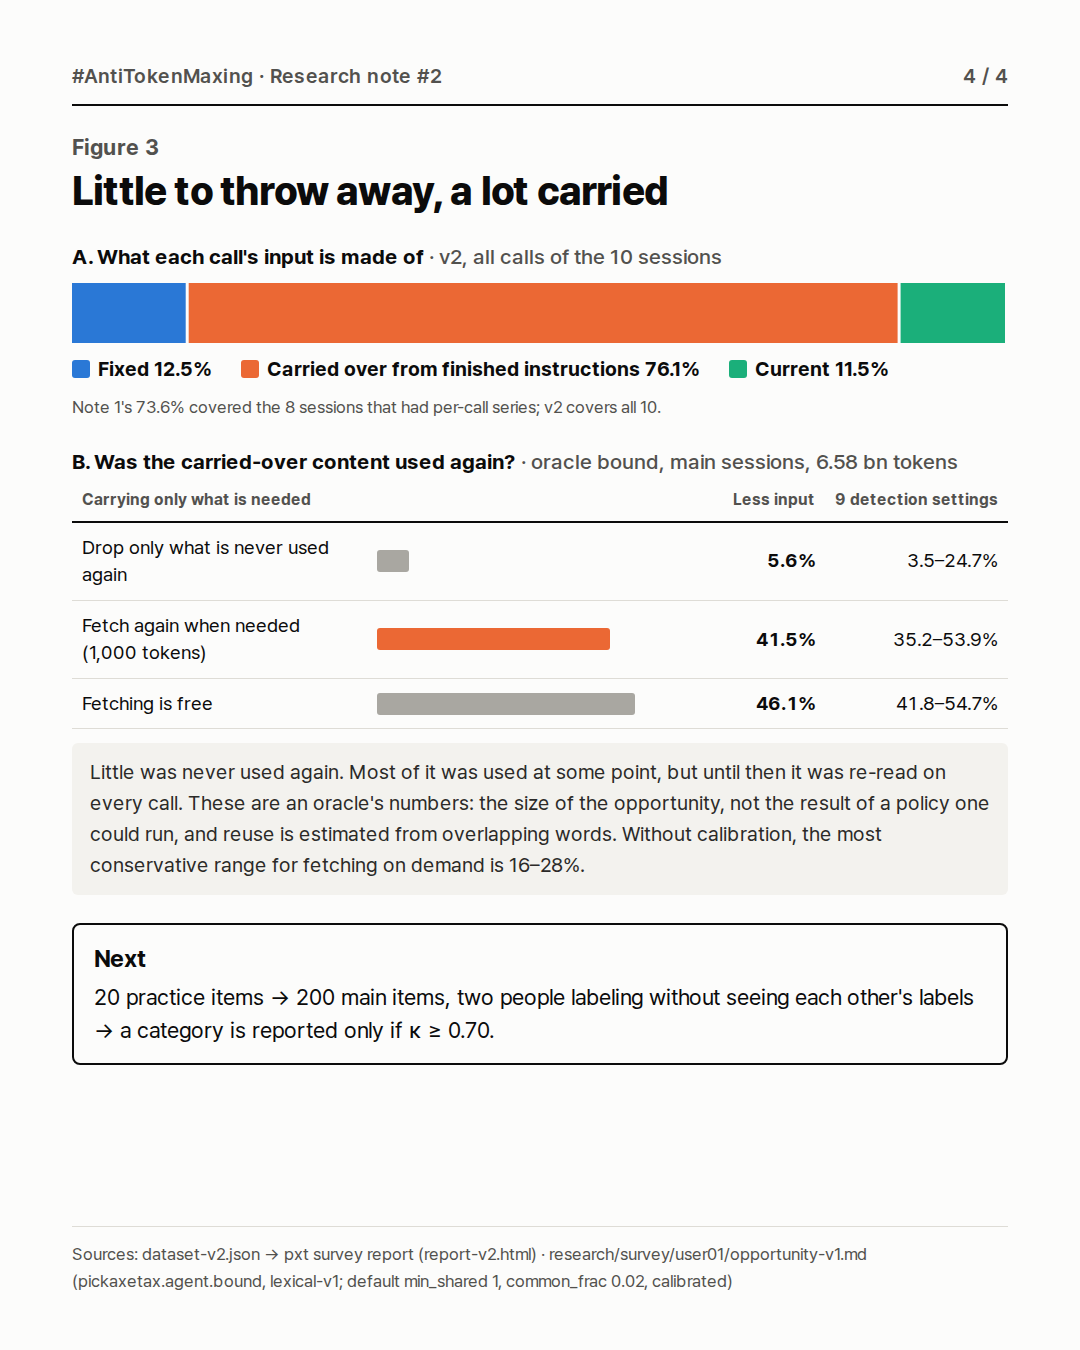
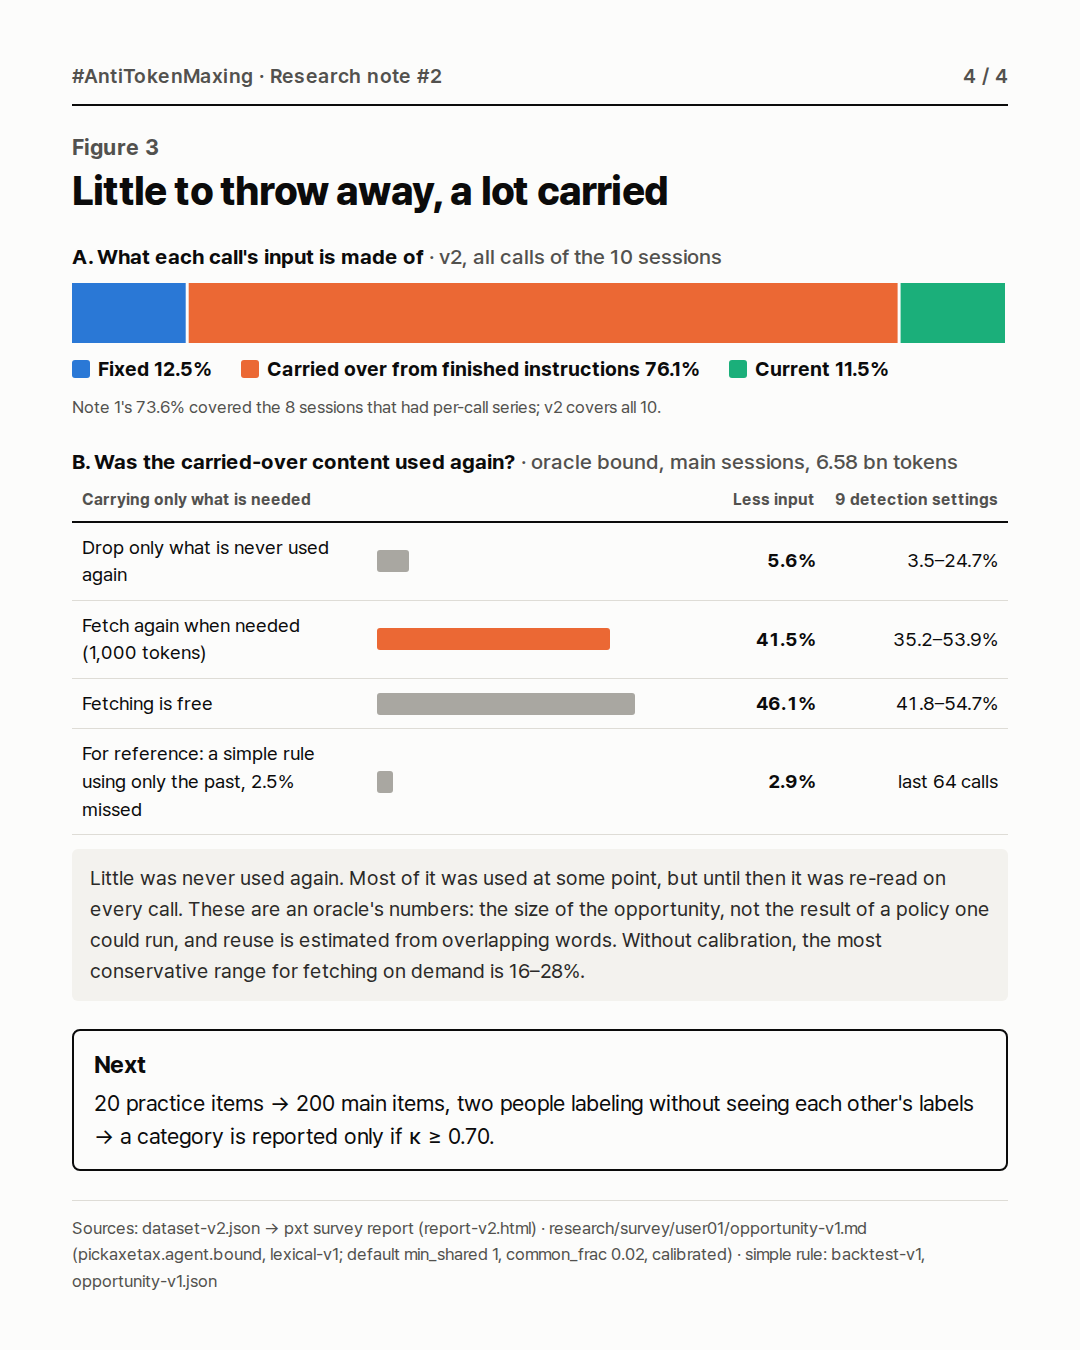
Note 2 figure 3: the simple rule next to the oracle; exploratory backtest grid in the data

Changed region(s): [[0.0611, 0.5289, 0.9167, 0.8711], [0.0611, 0.9022, 0.8556, 0.9644]]

diff --git a/docs/launch/linkedin-series/figures/note02-slides.html b/docs/launch/linkedin-series/figures/note02-slides.html
@@ -76,6 +76,6 @@ table.o td { vertical-align: middle; }
 <section class="slide" id="s4"><div class="top"><span>#AntiTokenMaxing · 연구 노트 #2</span><span>4 / 4</span></div>
   <div><p class="cap">그림 3</p><h2>버릴 것은 적고, 들고 다닌 것은 많다</h2></div>
   <div class="panel"><p class="k">A. 매 호출 입력의 구성 <span>· 판 2, 세션 10개 전체 호출 합</span></p><svg width="936" height="60" viewBox="0 0 936 60" role="img" aria-label="decomposition"><rect x="0.0" y="0" width="113.7" height="60" fill="#2a78d6"/><rect x="116.7" y="0" width="708.9" height="60" fill="#eb6834"/><rect x="828.6" y="0" width="104.4" height="60" fill="#1baf7a"/></svg><div class="legend"><span><i style="background:#2a78d6"></i>고정 12.5%</span><span><i style="background:#eb6834"></i>이전 지시에서 넘어온 몫 76.1%</span><span><i style="background:#1baf7a"></i>지금 지시 11.5%</span></div><p class="sub2">1편의 73.6%는 시계열이 있던 세션 8개 기준이고, 판 2는 10개 모두입니다.</p></div>
-  <div class="panel"><p class="k">B. 넘어온 내용은 다시 쓰였나 <span>· 오라클 최소치, 주 세션 65.8억 토큰</span></p><table class="n o"><thead><tr><th>필요한 것만 들고 갔다면</th><th></th><th class="r">덜 읽었을 몫</th><th class="r">탐지 기준 9가지</th></tr></thead><tbody><tr><td>다시는 안 쓰인 것만 버리기</td><td style="width:38%"><div class="obar dim" style="width:9.3%"></div></td><td class="r"><b>5.6%</b></td><td class="r">3.5~24.7%</td></tr><tr><td>필요할 때 다시 불러오기 (1천 토큰)</td><td style="width:38%"><div class="obar" style="width:69.2%"></div></td><td class="r"><b>41.5%</b></td><td class="r">35.2~53.9%</td></tr><tr><td>불러오기가 공짜라면</td><td style="width:38%"><div class="obar dim" style="width:76.8%"></div></td><td class="r"><b>46.1%</b></td><td class="r">41.8~54.7%</td></tr></tbody></table><p class="note">끝까지 다시 쓰이지 않은 내용은 적었습니다. 대부분은 언젠가 다시 쓰였지만, 그때까지 매 호출마다 다시 읽혔습니다. 미래를 아는 오라클의 값이라 실현 가능한 정책의 결과가 아니라 기회의 크기이고, 재사용은 글자 겹침으로 추정했습니다. 보정 없이 가장 보수적으로 잡으면 필요할 때 불러오기는 16~28%입니다.</p></div>
+  <div class="panel"><p class="k">B. 넘어온 내용은 다시 쓰였나 <span>· 오라클 최소치, 주 세션 65.8억 토큰</span></p><table class="n o"><thead><tr><th>필요한 것만 들고 갔다면</th><th></th><th class="r">덜 읽었을 몫</th><th class="r">탐지 기준 9가지</th></tr></thead><tbody><tr><td>다시는 안 쓰인 것만 버리기</td><td style="width:38%"><div class="obar dim" style="width:9.3%"></div></td><td class="r"><b>5.6%</b></td><td class="r">3.5~24.7%</td></tr><tr><td>필요할 때 다시 불러오기 (1천 토큰)</td><td style="width:38%"><div class="obar" style="width:69.2%"></div></td><td class="r"><b>41.5%</b></td><td class="r">35.2~53.9%</td></tr><tr><td>불러오기가 공짜라면</td><td style="width:38%"><div class="obar dim" style="width:76.8%"></div></td><td class="r"><b>46.1%</b></td><td class="r">41.8~54.7%</td></tr><tr><td>참고: 과거만 보는 단순 규칙, 놓침 2.5%</td><td style="width:38%"><div class="obar dim" style="width:4.8%"></div></td><td class="r"><b>2.9%</b></td><td class="r">최근 64번 호출</td></tr></tbody></table><p class="note">끝까지 다시 쓰이지 않은 내용은 적었습니다. 대부분은 언젠가 다시 쓰였지만, 그때까지 매 호출마다 다시 읽혔습니다. 미래를 아는 오라클의 값이라 실현 가능한 정책의 결과가 아니라 기회의 크기이고, 재사용은 글자 겹침으로 추정했습니다. 보정 없이 가장 보수적으로 잡으면 필요할 때 불러오기는 16~28%입니다.</p></div>
   <div class="box"><b>다음</b>연습 20개 → 본 판정 200개, 두 사람이 서로의 판정을 모른 채 → 갈래별 일치도 κ ≥ 0.70일 때만 결과를 냅니다.</div>
-  <p class="src">출처: dataset-v2.json → pxt survey report (report-v2.html) · research/survey/user01/opportunity-v1.md (pickaxetax.agent.bound, lexical-v1, 기본 기준 min_shared 1, common_frac 0.02, 보정)</p></section>
+  <p class="src">출처: dataset-v2.json → pxt survey report (report-v2.html) · research/survey/user01/opportunity-v1.md (pickaxetax.agent.bound, lexical-v1, 기본 기준 min_shared 1, common_frac 0.02, 보정) · 단순 규칙: backtest-v1, opportunity-v1.json</p></section>

diff --git a/docs/launch/linkedin-series/figures/note02-slides.en.html b/docs/launch/linkedin-series/figures/note02-slides.en.html
@@ -76,6 +76,6 @@ table.o td { vertical-align: middle; }
 <section class="slide" id="s4"><div class="top"><span>#AntiTokenMaxing · Research note #2</span><span>4 / 4</span></div>
   <div><p class="cap">Figure 3</p><h2>Little to throw away, a lot carried</h2></div>
   <div class="panel"><p class="k">A. What each call's input is made of <span>· v2, all calls of the 10 sessions</span></p><svg width="936" height="60" viewBox="0 0 936 60" role="img" aria-label="decomposition"><rect x="0.0" y="0" width="113.7" height="60" fill="#2a78d6"/><rect x="116.7" y="0" width="708.9" height="60" fill="#eb6834"/><rect x="828.6" y="0" width="104.4" height="60" fill="#1baf7a"/></svg><div class="legend"><span><i style="background:#2a78d6"></i>Fixed 12.5%</span><span><i style="background:#eb6834"></i>Carried over from finished instructions 76.1%</span><span><i style="background:#1baf7a"></i>Current 11.5%</span></div><p class="sub2">Note 1's 73.6% covered the 8 sessions that had per-call series; v2 covers all 10.</p></div>
-  <div class="panel"><p class="k">B. Was the carried-over content used again? <span>· oracle bound, main sessions, 6.58 bn tokens</span></p><table class="n o"><thead><tr><th>Carrying only what is needed</th><th></th><th class="r">Less input</th><th class="r">9 detection settings</th></tr></thead><tbody><tr><td>Drop only what is never used again</td><td style="width:38%"><div class="obar dim" style="width:9.3%"></div></td><td class="r"><b>5.6%</b></td><td class="r">3.5–24.7%</td></tr><tr><td>Fetch again when needed (1,000 tokens)</td><td style="width:38%"><div class="obar" style="width:69.2%"></div></td><td class="r"><b>41.5%</b></td><td class="r">35.2–53.9%</td></tr><tr><td>Fetching is free</td><td style="width:38%"><div class="obar dim" style="width:76.8%"></div></td><td class="r"><b>46.1%</b></td><td class="r">41.8–54.7%</td></tr></tbody></table><p class="note">Little was never used again. Most of it was used at some point, but until then it was re-read on every call. These are an oracle's numbers: the size of the opportunity, not the result of a policy one could run, and reuse is estimated from overlapping words. Without calibration, the most conservative range for fetching on demand is 16–28%.</p></div>
+  <div class="panel"><p class="k">B. Was the carried-over content used again? <span>· oracle bound, main sessions, 6.58 bn tokens</span></p><table class="n o"><thead><tr><th>Carrying only what is needed</th><th></th><th class="r">Less input</th><th class="r">9 detection settings</th></tr></thead><tbody><tr><td>Drop only what is never used again</td><td style="width:38%"><div class="obar dim" style="width:9.3%"></div></td><td class="r"><b>5.6%</b></td><td class="r">3.5–24.7%</td></tr><tr><td>Fetch again when needed (1,000 tokens)</td><td style="width:38%"><div class="obar" style="width:69.2%"></div></td><td class="r"><b>41.5%</b></td><td class="r">35.2–53.9%</td></tr><tr><td>Fetching is free</td><td style="width:38%"><div class="obar dim" style="width:76.8%"></div></td><td class="r"><b>46.1%</b></td><td class="r">41.8–54.7%</td></tr><tr><td>For reference: a simple rule using only the past, 2.5% missed</td><td style="width:38%"><div class="obar dim" style="width:4.8%"></div></td><td class="r"><b>2.9%</b></td><td class="r">last 64 calls</td></tr></tbody></table><p class="note">Little was never used again. Most of it was used at some point, but until then it was re-read on every call. These are an oracle's numbers: the size of the opportunity, not the result of a policy one could run, and reuse is estimated from overlapping words. Without calibration, the most conservative range for fetching on demand is 16–28%.</p></div>
   <div class="box"><b>Next</b>20 practice items → 200 main items, two people labeling without seeing each other's labels → a category is reported only if κ ≥ 0.70.</div>
-  <p class="src">Sources: dataset-v2.json → pxt survey report (report-v2.html) · research/survey/user01/opportunity-v1.md (pickaxetax.agent.bound, lexical-v1; default min_shared 1, common_frac 0.02, calibrated)</p></section>
+  <p class="src">Sources: dataset-v2.json → pxt survey report (report-v2.html) · research/survey/user01/opportunity-v1.md (pickaxetax.agent.bound, lexical-v1; default min_shared 1, common_frac 0.02, calibrated) · simple rule: backtest-v1, opportunity-v1.json</p></section>

diff --git a/docs/launch/linkedin-series/figures/note02-slides.py b/docs/launch/linkedin-series/figures/note02-slides.py
@@ -104,9 +104,10 @@ T = {
   kg="B. 넘어온 내용은 다시 쓰였나 <span>· 오라클 최소치, 주 세션 {m:.1f}억 토큰</span>",
   oth=["필요한 것만 들고 갔다면", "덜 읽었을 몫", "탐지 기준 9가지"],
   orows=["다시는 안 쓰인 것만 버리기", "필요할 때 다시 불러오기 (1천 토큰)", "불러오기가 공짜라면"],
+  simple="참고: 과거만 보는 단순 규칙, 놓침 {m:.1f}%", simple_r="최근 {n}번 호출",
   note_c="끝까지 다시 쓰이지 않은 내용은 적었습니다. 대부분은 언젠가 다시 쓰였지만, 그때까지 매 호출마다 다시 읽혔습니다. 미래를 아는 오라클의 값이라 실현 가능한 정책의 결과가 아니라 기회의 크기이고, 재사용은 글자 겹침으로 추정했습니다. 보정 없이 가장 보수적으로 잡으면 필요할 때 불러오기는 {lo:.0f}~{hi:.0f}%입니다.",
   nxt="<b>다음</b>연습 20개 → 본 판정 200개, 두 사람이 서로의 판정을 모른 채 → 갈래별 일치도 κ ≥ 0.70일 때만 결과를 냅니다.",
-  src4="출처: dataset-v2.json → pxt survey report (report-v2.html) · research/survey/user01/opportunity-v1.md (pickaxetax.agent.bound, lexical-v1, 기본 기준 min_shared 1, common_frac 0.02, 보정)",
+  src4="출처: dataset-v2.json → pxt survey report (report-v2.html) · research/survey/user01/opportunity-v1.md (pickaxetax.agent.bound, lexical-v1, 기본 기준 min_shared 1, common_frac 0.02, 보정) · 단순 규칙: backtest-v1, opportunity-v1.json",
 ),
 "en": dict(
   head="#AntiTokenMaxing · Research note #2",
@@ -143,9 +144,10 @@ T = {
   kg="B. Was the carried-over content used again? <span>· oracle bound, main sessions, {m:.2f} bn tokens</span>",
   oth=["Carrying only what is needed", "Less input", "9 detection settings"],
   orows=["Drop only what is never used again", "Fetch again when needed (1,000 tokens)", "Fetching is free"],
+  simple="For reference: a simple rule using only the past, {m:.1f}% missed", simple_r="last {n} calls",
   note_c="Little was never used again. Most of it was used at some point, but until then it was re-read on every call. These are an oracle's numbers: the size of the opportunity, not the result of a policy one could run, and reuse is estimated from overlapping words. Without calibration, the most conservative range for fetching on demand is {lo:.0f}–{hi:.0f}%.",
   nxt="<b>Next</b>20 practice items → 200 main items, two people labeling without seeing each other's labels → a category is reported only if κ ≥ 0.70.",
-  src4="Sources: dataset-v2.json → pxt survey report (report-v2.html) · research/survey/user01/opportunity-v1.md (pickaxetax.agent.bound, lexical-v1; default min_shared 1, common_frac 0.02, calibrated)",
+  src4="Sources: dataset-v2.json → pxt survey report (report-v2.html) · research/survey/user01/opportunity-v1.md (pickaxetax.agent.bound, lexical-v1; default min_shared 1, common_frac 0.02, calibrated) · simple rule: backtest-v1, opportunity-v1.json",
 ),
 }
 
@@ -193,6 +195,10 @@ for lang, t in T.items():
         f'<tr><td>{lab}</td><td style="width:38%"><div class="obar{"" if p == "P=1000" else " dim"}" style="width:{OP[p]["avoidable_pct"] / 60 * 100:.1f}%"></div></td>'
         f'<td class="r"><b>{OP[p]["avoidable_pct"]:.1f}%</b></td><td class="r">{orng(p)[0]:.1f}{"~" if lang == "ko" else "–"}{orng(p)[1]:.1f}%</td></tr>'
         for lab, p in zip(t["orows"], pols))
+    sg = O["backtest_exploratory"]["grid"]["recency-64"]
+    orows += (f'<tr><td>{t["simple"].format(m=sg["median_miss_rate"])}</td><td style="width:38%"><div class="obar dim" '
+              f'style="width:{sg["median_saved_pct"] / 60 * 100:.1f}%"></div></td><td class="r"><b>{sg["median_saved_pct"]:.1f}%</b></td>'
+              f'<td class="r">{t["simple_r"].format(n=64)}</td></tr>')
     omain = O["merged"]["measured_input"] / (1e8 if lang == "ko" else 1e9)
     otable = f'<table class="n o"><thead><tr><th>{t["oth"][0]}</th><th></th><th class="r">{t["oth"][1]}</th><th class="r">{t["oth"][2]}</th></tr></thead><tbody>{orows}</tbody></table>'
 
